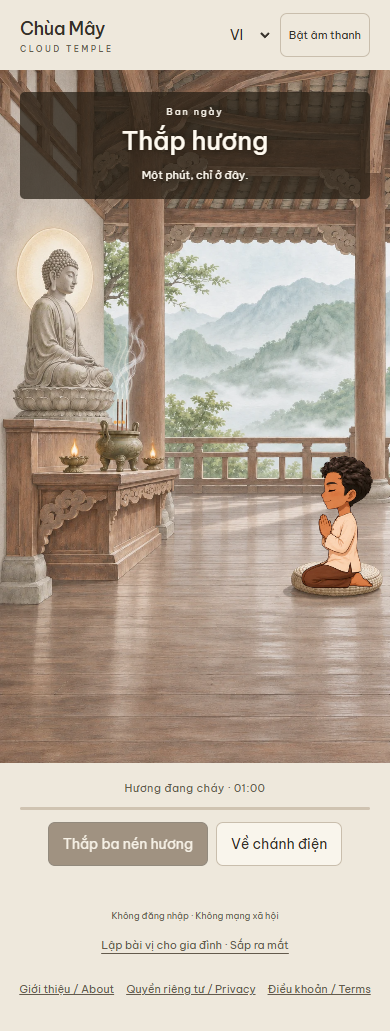
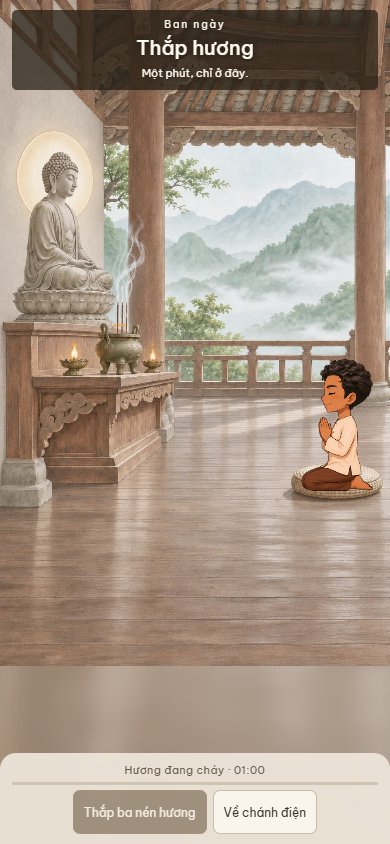
Fit temple activities in one viewport and isolate Telegram controls

diff --git a/app.js b/app.js
@@ -1,5 +1,5 @@
 import {copy,reflections} from './i18n.js';
-import {apiURL,initTelegram,inTelegram,initData,telegramBack,haptic,telegramShare} from './telegram.js';
+import {apiURL,initTelegram,inTelegram,initData,telegramBack,telegramAppearance,haptic,telegramShare} from './telegram.js';
 
 const $=s=>document.querySelector(s);
 const imageRoot='assets/processed-v1/img/';
@@ -101,7 +101,8 @@ async function navigate(view,{keepResult=false}={}){
 }
 function render(){
   const focused=document.activeElement,action=focused?.dataset?.action,target=focused?.dataset?.target,minutes=focused?.dataset?.minutes;
-  document.documentElement.lang=state.lang;document.body.dataset.period=state.period;
+  document.documentElement.lang=state.lang;document.body.dataset.period=state.period;document.body.dataset.view=state.view;
+  telegramAppearance(state.period,!!state.activity?.running&&['incense','sit'].includes(state.view));
   document.querySelectorAll('[data-i18n]').forEach(e=>e.textContent=t(e.dataset.i18n));
   $('#language').setAttribute('aria-label',t('language'));$('#controls').setAttribute('aria-label',t('actions'));
   if(inTelegram())$('#memorial').textContent=t('remind');
@@ -114,7 +115,7 @@ function render(){
   canvas.setAttribute('aria-label',t(sceneName()==='hall-front'?'sceneFront':sceneName()==='hall-side'?'sceneSide':'sceneCourt'));
   $('#notice').textContent='';$('#stage-note').textContent='';$('#entry-overlay').innerHTML='';
   if(state.view==='entry'){
-    $('#entry-overlay').innerHTML=`<p class="entry-caption">${t('entryNote')}</p>${button('enter','enter','primary')}`;$('#controls').innerHTML=`<p class="section-label">${t('tagline')}</p>`;
+    $('#controls').innerHTML=button('enter','enter','primary');
   }else if(state.view==='choose'){
     $('#controls').innerHTML=`<div class="visitor-choice"><img class="preview" src="${imageRoot}visitor-${state.visitor}-sit.webp" alt="${escapeHTML(t('choose'))}">${button('change','change')}${button('continue','continue','primary')}</div>`;
   }else if(state.view==='home'){
@@ -134,9 +135,23 @@ function render(){
     $('#controls').innerHTML=`<button class="bead-control" id="bead-control" data-action="bead" aria-label="${t('beadAction')}"><svg viewBox="0 0 220 180" aria-hidden="true">${Array.from({length:108},(_,i)=>{const a=i/108*Math.PI*2-Math.PI/2;return `<circle class="bead-dot ${i===state.bead%108?'current':''}" cx="${110+98*Math.cos(a)}" cy="${90+77*Math.sin(a)}" r="2.6"/>`;}).join('')}</svg><span>${state.bead} / 108</span></button>${button('back','home','text-button')}`;
     bindSwipe();
   }
-  fx();updateCounters();
+  if(state.view==='home')$('#controls').insertAdjacentHTML('beforeend',button('more','more','text-button'));
+  fx();updateCounters();fitScene();
   if(focused&&!focused.isConnected){const replacement=action?document.querySelector(`[data-action="${action}"]`):target?document.querySelector(`[data-target="${target}"]`):minutes?document.querySelector(`[data-minutes="${minutes}"]`):null;if(replacement&&!replacement.disabled)replacement.focus({preventScroll:true});}
 }
+function fitScene(){
+  if(!renderAssets)return;
+  const stage=$('.stage'),heading=$('.scene-heading').getBoundingClientRect(),controls=$('#controls').getBoundingClientRect(),box=stage.getBoundingClientRect();
+  // Cover would crop the Buddha and visitor on opposite edges; preserve their shared region.
+  const top=heading.bottom-box.top+8,bottom=controls.top-box.top-8;
+  const region=sceneName()==='hall-side'?[300,1280]:sceneName()==='courtyard'?[420,1400]:[300,1400];
+  const scale=Math.min(box.width/941,(bottom-top)/(region[1]-region[0]));
+  stage.style.setProperty('--scene-width',941*scale+'px');
+  stage.style.setProperty('--scene-top',top-region[0]*scale+'px');
+  stage.style.setProperty('--scene-image',`url("${renderAssets.scene.src}")`);
+}
+new ResizeObserver(fitScene).observe($('#app'));
+new ResizeObserver(fitScene).observe($('#controls'));
 function formatTime(ms){const seconds=Math.ceil(Math.max(0,ms)/1000);return `${Math.floor(seconds/60).toString().padStart(2,'0')}:${(seconds%60).toString().padStart(2,'0')}`;}
 function remaining(a){return a.running?Math.max(0,a.deadline-Date.now()):a.left;}
 function updateCounters(){
@@ -197,7 +212,11 @@ function openModal(title,body){lastFocus=document.activeElement;$('#modal-title'
 function closeModal(){if($('#modal').open)$('#modal').close();}
 $('#close-modal').addEventListener('click',closeModal);
 $('#modal').addEventListener('close',()=>{if(shareURL){URL.revokeObjectURL(shareURL);shareURL=null;}telegramBack(!['entry','home'].includes(state.view));lastFocus?.focus?.();});
+function openMore(){closeModal();$('#more-menu').showModal();telegramBack(true);}
+$('#close-more').onclick=()=>$('#more-menu').close();
+$('#more-menu').addEventListener('close',()=>telegramBack(!['entry','home'].includes(state.view)));
 function memorial(){
+  $('#more-menu').close();
   if(inTelegram()){
     openModal('remind',`<p>${t('remindInfo')}</p><form id="remind-form"><label class="consent"><input type="checkbox" required><span>${t('remindConsent')}</span></label><button class="primary">${t('remind')}</button><p role="status" id="remind-status"></p></form>`);
     $('#remind-form').addEventListener('submit',async e=>{e.preventDefault();const b=e.currentTarget.querySelector('button');if(b.disabled)return;b.disabled=true;try{const r=await fetch(apiURL('/telegram/remind'),{method:'POST',headers:{'Content-Type':'application/json'},body:JSON.stringify({initData:initData(),consent:true,consentAt:new Date().toISOString()}),signal:AbortSignal.timeout(12000)});$('#remind-status').textContent=t(r.ok?'registered':'unavailable');}catch{$('#remind-status').textContent=t('unavailable');}finally{b.disabled=false;}});return;
@@ -248,6 +267,7 @@ document.addEventListener('click',async e=>{
   if(b.dataset.minutes){state.sitMinutes=Number(b.dataset.minutes);render();return;}
   const action=b.dataset.action;if(!action)return;if(state.busy)return;
   switch(action){
+    case 'more':openMore();break;
     case 'enter':await navigate('choose');break;
     case 'change':state.visitor=state.layout.v1_scope.visitors[(state.layout.v1_scope.visitors.indexOf(state.visitor)+1)%6];write('ct-visitor',state.visitor);render();break;
     case 'continue':write('ct-visitor',state.visitor);audio.strike('bell');await navigate('home');break;
@@ -285,7 +305,7 @@ async function tick(){
 }
 setInterval(tick,200);
 async function init(){
-  await initTelegram(()=>{if($('#modal').open)closeModal();else navigate(state.view==='choose'?'entry':'home');});
+  await initTelegram(()=>{if($('#more-menu').open)$('#more-menu').close();else if($('#modal').open)closeModal();else navigate(state.view==='choose'?'entry':'home');},openMore);
   try{const response=await fetch('assets/processed-v1/layout-v1.json');if(!response.ok)throw new Error('layout');state.layout=await response.json();const saved=read('ct-visitor',null);state.visitor=state.layout.v1_scope.visitors.includes(saved)?saved:state.layout.v1_scope.visitors[Math.floor(Math.random()*6)];await navigate('entry');}
   catch{$('#loading').hidden=true;$('#notice').textContent=t('loadError');$('#controls').innerHTML=button('retry','reload');$('#controls').onclick=e=>{if(e.target.dataset.action==='reload')location.reload();};$('#app').setAttribute('aria-busy','false');}
 }

diff --git a/styles.css b/styles.css
@@ -15,4 +15,23 @@ body:is([data-period=night],[data-period=dusk]) button.primary{background:#52433
 body:is([data-period=night],[data-period=dusk]) button.primary:hover{background:#655139;color:#fffaf1}
 body:is([data-period=night],[data-period=dusk]) button[aria-pressed=true]{background:#655139;color:#fffaf1;border-color:#dfcbb0}
 body:is([data-period=night],[data-period=dusk]) button:disabled{opacity:1;background:#494a43;color:#f0ece3;border-color:#89877d;cursor:not-allowed}
-#eyebrow{text-transform:none}.legal-links{display:flex;flex-wrap:wrap;justify-content:center;gap:12px}.legal-links a{display:inline-flex;align-items:center;min-height:44px;font-size:11px}.legal-page{max-width:720px;margin:24px auto;padding:24px;line-height:1.8;background:var(--paper)}.legal-page p,.legal-page h2{margin:16px 0}.telegram #app,.telegram .topbar,.telegram .controls,.telegram footer{background:var(--tg-bg-color,var(--paper));color:var(--tg-text-color,var(--ink))}.telegram button:not(.primary){background:var(--tg-secondary-bg-color,var(--paper))!important;color:var(--tg-text-color,var(--ink))!important}.telegram button.primary{background:var(--tg-button-color,var(--button))!important;color:var(--tg-button-text-color,var(--button-text))!important}.telegram [data-action=home]{display:none}.telegram .section-label,.telegram footer{color:var(--tg-hint-color,var(--muted))}
+#eyebrow{text-transform:none}.legal-links{display:flex;flex-wrap:wrap;justify-content:center;gap:12px}.legal-links a{display:inline-flex;align-items:center;min-height:44px;font-size:11px}.legal-page{max-width:720px;margin:24px auto;padding:24px;line-height:1.8;background:var(--paper)}.legal-page p,.legal-page h2{margin:16px 0}/* The scene and visitor are already composited in one canvas; keep FX on its exact transform. */
+html:has(#app),body:has(#app){height:100%;overflow:hidden;overscroll-behavior:none}
+body:has(#app){--safe-top:env(safe-area-inset-top,0px);--safe-bottom:env(safe-area-inset-bottom,0px);--safe-left:env(safe-area-inset-left,0px);--safe-right:env(safe-area-inset-right,0px)}
+#app{position:relative;height:var(--app-height,100dvh);min-height:0;max-width:470px;margin:0 auto;overflow:hidden;border-radius:0}
+.stage{position:absolute;inset:0;width:100%;height:100%;max-height:none;aspect-ratio:auto;margin:0}
+.stage canvas,.stage>svg{inset:auto;left:50%;top:50%;width:max(100%,calc(var(--app-height,100dvh) * 941 / 1672));height:auto;aspect-ratio:941/1672;transform:translate(-50%,-50%)}
+.scene-heading{top:calc(10px + var(--safe-top));left:calc(12px + var(--safe-left));right:calc(12px + var(--safe-right));padding:8px 12px}
+h1{font-size:20px;line-height:1.35}#eyebrow{font-size:10px;margin-bottom:3px}#subtitle{margin-top:4px;line-height:1.5}
+.controls{position:absolute;bottom:0;left:0;right:0;margin:0;max-width:none;min-height:0;padding:10px calc(12px + var(--safe-right)) calc(10px + var(--safe-bottom)) calc(12px + var(--safe-left));background:#eee8dce8;backdrop-filter:blur(8px);border-radius:16px 16px 0 0;text-align:center}
+.stack{gap:5px}.row{gap:6px}.controls button{padding:9px 10px;font-size:12px}.controls .text-button{padding:8px;min-height:44px}.controls .action-nav button{padding:6px 2px;font-size:10px}.timer{font-size:26px}.count{font-size:20px}.bead-control{height:125px;width:160px}.preview{height:84px;width:58px}.completion{padding-top:0;border:0}.completion p{margin-bottom:6px}.stage-note{bottom:35%;font-size:12px}.notice{position:absolute;bottom:30%;left:12px;right:12px;padding:0;min-height:0;background:var(--paper);border-radius:5px}.notice:empty{display:none}
+body[data-view=entry] .scene-heading{background:none;text-shadow:0 1px 5px #000;color:#fffaf1;top:calc(22px + var(--safe-top))}body[data-view=entry] #eyebrow,body[data-view=entry] #subtitle{display:none}body[data-view=entry] .controls{background:#eee8dcbf;padding-top:16px}body[data-view=entry] .primary{min-width:190px}
+button.primary,button[aria-pressed=true]{background:#524331;color:#fffaf1;border-color:#725139}button.primary:hover,button[aria-pressed=true]:hover{background:#655139;color:#fffaf1}
+body[data-period=night] .controls{background:#282a27ed}body[data-period=dusk] .controls{background:#e8dac8ed}
+#more-menu .topbar{padding:0;min-height:44px}#more-menu .wordmark{display:none}#more-menu .utilities{width:100%;justify-content:space-between}#more-menu footer{padding:10px 0 0}#more-menu #sound-controls{padding:6px 0}
+body[data-period=night] dialog{color:#342f28}dialog{overscroll-behavior:contain}#more-menu .utilities button{color:#342f28;background:#f9f5ec}
+@media(max-height:700px){.scene-heading{padding:6px 10px}#subtitle{font-size:10px}.stack{gap:3px}.controls{padding-top:7px}.controls .section-label{font-size:10px}.timer{font-size:24px}.bead-control{height:112px}.nav-icon{margin-bottom:2px}}
+.stage::before{content:"";position:absolute;inset:-10px;background-image:var(--scene-image);background-position:center;background-size:cover;filter:blur(10px);opacity:.65}
+.stage canvas,.stage>svg{width:var(--scene-width,100%);top:var(--scene-top,0px);transform:translateX(-50%)}
+body[data-view=sit] .controls{min-height:260px}
+body:is([data-period=night],[data-period=dusk]) .controls button[aria-pressed=true]{background:#655139;color:#fffaf1}

diff --git a/tests/one-screen-telegram-check.js b/tests/one-screen-telegram-check.js
@@ -1,0 +1,22 @@
+async(page)=>{
+ const assert=(v,m)=>{if(!v)throw Error(m)};
+ await page.setViewportSize({width:393,height:852});
+ const sdk=`window.audit={events:{},colors:{}};window.Telegram={WebApp:{initData:'mock',viewportStableHeight:852,safeAreaInset:{top:24,bottom:20},contentSafeAreaInset:{top:12,bottom:8},ready(){},expand(){},BackButton:{onClick(f){audit.back=f},show(){},hide(){}},SettingsButton:{onClick(f){audit.settings=f},show(){audit.settingsShown=true}},disableVerticalSwipes(){audit.swipesDisabled=true},enableClosingConfirmation(){audit.confirm=true},disableClosingConfirmation(){audit.confirm=false},onEvent(k,f){audit.events[k]=f},setHeaderColor(v){audit.colors.header=v},setBackgroundColor(v){audit.colors.background=v},setBottomBarColor(v){audit.colors.bottom=v}}};`;
+ await page.route('https://telegram.org/js/telegram-web-app.js',r=>r.fulfill({contentType:'text/javascript',body:sdk}));
+ await page.route('https://staging.chuamay.org/**',async r=>{const u=new URL(r.request().url());const response=await r.fetch({url:'http://127.0.0.1:8788'+u.pathname+u.search});await r.fulfill({response});});
+ try{
+ await page.clock.setSystemTime(new Date('2026-11-05T10:00:00+07:00'));
+ await page.goto('https://staging.chuamay.org/?telegram=1');
+ const shot=async(view,selector)=>{await page.locator(selector).waitFor();await page.locator('#loading').waitFor({state:'hidden'});await page.clock.runFor(600);await page.screenshot({path:`E:/cloudtemple/screenshots/one-screen-telegram-${view}.png`});assert(await page.evaluate(()=>document.scrollingElement.scrollHeight===innerHeight),'scroll');assert(!await page.locator('.topbar').isVisible(),'own topbar hidden')};
+ await shot('entry','[data-action=enter]');await page.locator('[data-action=enter]').click();await shot('choose','[data-action=continue]');await page.locator('[data-action=continue]').click();await shot('home','[data-action=more]');
+ for(const [view,selector] of [['incense','[data-action=light]'],['bow','[data-action=bow-once]'],['sit','[data-action=sit-start]'],['beads','#bead-control']]){
+ await page.locator(`[data-action=${view}]`).click();await shot(view,selector);
+ if(view==='incense'||view==='sit'){await page.locator(selector).click();assert(await page.evaluate(()=>audit.confirm),'running confirmation');if(view==='sit'){await page.locator('[data-action=pause]').click();assert(await page.evaluate(()=>!audit.confirm),'paused confirmation off');}}
+ await page.locator('[data-action=home]').click();await page.locator('[data-action=more]').waitFor();assert(await page.evaluate(()=>!audit.confirm),'home confirmation off');}
+ await page.evaluate(()=>audit.settings());assert(await page.locator('#more-menu').isVisible(),'settings opens');await page.locator('#close-more').click();
+ const colors={};for(const [period,hour] of [['dawn',6],['day',10],['dusk',18],['night',22]]){await page.clock.setSystemTime(new Date(`2026-11-05T${String(hour).padStart(2,'0')}:00:00+07:00`));await page.locator('[data-action=bow]').click();await page.locator('[data-action=bow-once]').waitFor();colors[period]=await page.evaluate(()=>audit.colors);await page.locator('[data-action=home]').click();await page.locator('[data-action=more]').waitFor();}
+ await page.screenshot({path:'E:/cloudtemple/screenshots/one-screen-telegram-night.png'});
+ await page.evaluate(()=>{Telegram.WebApp.viewportStableHeight=780;audit.events.viewportChanged({isStateStable:true})});assert(await page.locator('#app').evaluate(e=>e.clientHeight)===780,'stable viewport resize');
+ return {passed:true,mode:'mock bridge; native bars cannot be rendered by browser',colors,audit:await page.evaluate(()=>({swipesDisabled:audit.swipesDisabled,settingsShown:audit.settingsShown,safeTop:getComputedStyle(document.body).getPropertyValue('--safe-top')}))};
+ }finally{await page.unrouteAll({behavior:'wait'})}
+}

diff --git a/index.html b/index.html
@@ -2,7 +2,7 @@
 <html lang="vi">
 <head>
   <meta charset="utf-8">
-  <meta name="viewport" content="width=device-width,initial-scale=1">
+  <meta name="viewport" content="width=device-width,initial-scale=1,viewport-fit=cover">
   <meta name="theme-color" content="#eee8dc">
   <meta name="description" content="Chùa Mây — Một khoảng lặng cho hôm nay.">
   <title>Chùa Mây · Cloud Temple</title>
@@ -17,14 +17,6 @@
 </head>
 <body>
   <main id="app" aria-busy="true">
-    <header class="topbar">
-      <a class="wordmark" href="./">Chùa Mây<span>CLOUD TEMPLE</span></a>
-      <div class="utilities">
-        <select id="language" aria-label="Language"><option value="vi">VI</option><option value="en">EN</option></select>
-        <button id="sound-toggle" class="quiet" type="button" aria-pressed="false">Âm thanh</button>
-      </div>
-    </header>
-    <div id="sound-controls" hidden><label for="volume" data-i18n="volume"></label><input id="volume" type="range" min="0" max="100" value="25"></div>
     <section class="stage" aria-label="Chùa Mây">
       <canvas id="scene" width="941" height="1672" role="img" aria-label="Chùa Mây"></canvas>
       <svg id="effects" viewBox="0 0 941 1672" aria-hidden="true"></svg>
@@ -35,9 +27,18 @@
     </section>
     <section id="controls" class="controls" aria-label="Actions"></section>
     <p id="notice" class="notice" role="status" aria-live="polite"></p>
-    <footer><span data-i18n="privacy"></span><button id="memorial" class="text-button" data-i18n="memorial"></button><nav class="legal-links"><a href="/gioi-thieu">Giới thiệu / About</a><a href="/quyen-rieng-tu">Quyền riêng tư / Privacy</a><a href="/dieu-khoan">Điều khoản / Terms</a></nav></footer>
+
   </main>
   <dialog id="modal" aria-labelledby="modal-title"><div class="modal-inner"><button id="close-modal" class="close" type="button" data-i18n="close"></button><h2 id="modal-title"></h2><div id="modal-body"></div></div></dialog>
+  <dialog id="more-menu" aria-labelledby="more-title"><div class="modal-inner"><button id="close-more" class="close" data-i18n="close"></button><h2 id="more-title" data-i18n="more"></h2>    <header class="topbar">
+      <a class="wordmark" href="./">Chùa Mây<span>CLOUD TEMPLE</span></a>
+      <div class="utilities">
+        <select id="language" aria-label="Language"><option value="vi">VI</option><option value="en">EN</option></select>
+        <button id="sound-toggle" class="quiet" type="button" aria-pressed="false">Âm thanh</button>
+      </div>
+    </header>
+    <div id="sound-controls" hidden><label for="volume" data-i18n="volume"></label><input id="volume" type="range" min="0" max="100" value="25"></div>
+    <footer><span data-i18n="privacy"></span><button id="memorial" class="text-button" data-i18n="memorial"></button><nav class="legal-links"><a href="/gioi-thieu">Giới thiệu / About</a><a href="/quyen-rieng-tu">Quyền riêng tư / Privacy</a><a href="/dieu-khoan">Điều khoản / Terms</a></nav></footer></div></dialog>
   <noscript>JavaScript is needed to enter Cloud Temple.</noscript>
 </body>
 </html>

diff --git a/telegram.js b/telegram.js
@@ -1,14 +1,19 @@
 export const apiURL=path=>['h5.chuamay.org','miniapp.chuamay.org'].includes(location.hostname)?'https://api.chuamay.org'+path:'/api'+path;
 let app=null,back=null;
-export async function initTelegram(onBack){
+export async function initTelegram(onBack,onSettings){
   if(location.hostname!=='miniapp.chuamay.org'&&!(location.hostname==='staging.chuamay.org'&&new URLSearchParams(location.search).get('telegram')==='1'))return;
   try{
     await new Promise((resolve,reject)=>{const s=document.createElement('script');s.src='https://telegram.org/js/telegram-web-app.js';s.onload=resolve;s.onerror=reject;document.head.append(s);});
     const sdk=window.Telegram?.WebApp;if(!sdk)return;sdk.ready();sdk.expand();
     if(!sdk.initData)return;app=sdk;back=onBack;app.BackButton.onClick(()=>back?.());
     document.body.classList.add('telegram');
-    const theme=()=>{for(const [key,value] of Object.entries(app.themeParams)){if(/^#[a-f0-9]{6}$/i.test(value))document.body.style.setProperty('--tg-'+key.replaceAll('_','-'),value);}app.setHeaderColor?.('bg_color');app.setBackgroundColor?.(app.themeParams.bg_color||'#eee8dc');};
-    app.onEvent('themeChanged',theme);theme();
+    app.disableVerticalSwipes?.();app.SettingsButton?.onClick(onSettings);app.SettingsButton?.show();
+    const viewport=()=>{
+      if(app.viewportStableHeight>0)document.body.style.setProperty('--app-height',app.viewportStableHeight+'px');
+      for(const side of ['top','bottom','left','right'])document.body.style.setProperty('--safe-'+side,((app.safeAreaInset?.[side]||0)+(app.contentSafeAreaInset?.[side]||0))+'px');
+    };
+    for(const event of ['viewportChanged','safeAreaChanged','contentSafeAreaChanged'])app.onEvent(event,viewport);
+    viewport();
   }catch{/* Keep the web interface when the Telegram bridge is unavailable. */}
 }
 export const inTelegram=()=>!!app;
@@ -16,3 +21,10 @@ export const initData=()=>app?.initData||'';
 export function telegramBack(show){if(app)app.BackButton[show?'show':'hide']();}
 export function haptic(kind){if(!app)return false;try{app.HapticFeedback?.impactOccurred(kind);}catch{}return true;}
 export function telegramShare(text){if(!app)return false;app.openTelegramLink('https://t.me/share/url?url='+encodeURIComponent(location.origin)+'&text='+encodeURIComponent(text));return true;}
+
+export function telegramAppearance(period,running){
+  if(!app)return;
+  const color={dawn:'#eee8dc',day:'#eee8dc',dusk:'#705b49',night:'#282a27'}[period];
+  app.setHeaderColor?.(color);app.setBackgroundColor?.(color);app.setBottomBarColor?.(color);
+  app[running?'enableClosingConfirmation':'disableClosingConfirmation']?.();
+}

diff --git a/tests/browser-check.js b/tests/browser-check.js
@@ -27,11 +27,11 @@ async (page) => {
   await page.locator('#close-modal').click();await click('home');await click('beads');await page.locator('#bead-control').focus();
   await page.keyboard.press('Enter');await page.keyboard.press('Enter');assert(await page.locator('#bead-control').innerText()==='2 / 108','keyboard focus');await shot('06-beads');
   for(let i=2;i<108;i++)await click('bead');await page.locator('[data-action=share]').waitFor();
-  await page.locator('#memorial').click();await shot('08-memorial');await page.locator('#waitlist-form button').click();assert((await page.locator('#form-status').innerText()).length>0,'form validation');await page.locator('#close-modal').click();
-  await click('home');await page.clock.setSystemTime(new Date('2026-11-05T22:00:00+07:00'));await click('bow');await click('bow-once');await page.clock.runFor(1300);await shot('09-night-bow');
+  await click('home');await click('more');await page.locator('#memorial').click();await shot('08-memorial');await page.locator('#waitlist-form button').click();assert((await page.locator('#form-status').innerText()).length>0,'form validation');await page.locator('#close-modal').click();
+  await page.clock.setSystemTime(new Date('2026-11-05T22:00:00+07:00'));await click('bow');await click('bow-once');await page.clock.runFor(1300);await shot('09-night-bow');
   assert(await page.locator('body').getAttribute('data-period')==='night','night');
   await page.emulateMedia({reducedMotion:'reduce'});await page.waitForFunction(()=>getComputedStyle(document.querySelector('.halo-pulse')).animationName==='none');
   for(const width of [375,390,430]){await page.setViewportSize({width,height:844});assert(await page.evaluate(()=>document.documentElement.scrollWidth===innerWidth),'overflow');}
-  await page.setViewportSize({width:390,height:844});await page.locator('#language').selectOption('en');assert(await page.locator('html').getAttribute('lang')==='en','English');
+  await page.setViewportSize({width:390,height:844});await click('home');await click('more');await page.locator('#language').selectOption('en');assert(await page.locator('html').getAttribute('lang')==='en','English');
   return {passed:true,screenshots:9,paused:held,viewportWidths:[375,390,430]};
 }

diff --git a/tests/one-screen-check.js b/tests/one-screen-check.js
@@ -1,0 +1,14 @@
+async(page)=>{
+ const results=[];const assert=(v,m)=>{if(!v)throw Error(m)};
+ for(const [width,height] of [[375,667],[390,844],[393,852],[430,932]]){
+  await page.setViewportSize({width,height});await page.goto('http://127.0.0.1:8788');
+  const shot=async(view,selector)=>{await page.locator(selector).waitFor();await page.locator('#loading').waitFor({state:'hidden'});await page.waitForTimeout(500);
+   const m=await page.evaluate(()=>{const d=document.scrollingElement;const controls=[...document.querySelectorAll('#controls button,#controls select')].filter(e=>e.getClientRects().length).map(e=>{const r=e.getBoundingClientRect();return {text:e.textContent,x:r.x,y:r.y,right:r.right,bottom:r.bottom,w:r.width,h:r.height,sw:e.scrollWidth,cw:e.clientWidth}});return {scrollHeight:d.scrollHeight,viewport:innerHeight,scrollWidth:d.scrollWidth,width:innerWidth,controls}});
+   assert(m.scrollHeight===height&&m.scrollWidth===width,'scroll '+view);assert(m.controls.every(r=>r.x>=0&&r.y>=0&&r.right<=width+.1&&r.bottom<=height+.1&&r.h>=44&&r.sw<=r.cw),'controls '+view);
+   await page.screenshot({path:`E:/cloudtemple/screenshots/one-screen-${width}-${view}.png`});results.push({width,height,view,...m});};
+  await shot('entry','[data-action=enter]');await page.locator('[data-action=enter]').click();await shot('choose','[data-action=continue]');await page.locator('[data-action=continue]').click();await shot('home','[data-action=more]');
+  for(const [view,selector] of [['incense','[data-action=light]'],['bow','[data-action=bow-once]'],['sit','[data-action=sit-start]'],['beads','#bead-control']]){await page.locator(`[data-action=${view}]`).click();await shot(view,selector);await page.locator('[data-action=home]').click();await page.locator('[data-action=more]').waitFor();}
+  await page.locator('[data-action=more]').click();await page.locator('#language').selectOption('en');await page.locator('#sound-toggle').click();assert(await page.locator('#volume').isVisible(),'volume');await page.locator('#close-more').click();
+ }
+ return {passed:true,screenshots:results.length,dimensions:[...new Set(results.map(r=>r.width+'x'+r.height+': '+r.scrollWidth+'x'+r.scrollHeight))]};
+}

diff --git a/tests/telegram-browser-check.js b/tests/telegram-browser-check.js
@@ -12,7 +12,7 @@ async(page)=>{
     for(let i=1;i<108;i++)await page.locator('#bead-control').click();assert(await page.evaluate(()=>audit.haptics.at(-1)==='heavy'),'heavy haptic');
     await page.locator('[data-action=share]').click();await page.locator('[data-action=share-file]').click();assert(await page.evaluate(()=>audit.share.startsWith('https://t.me/share/url?')),'Telegram share');
     await page.evaluate(()=>audit.back());await page.evaluate(()=>audit.back());await page.locator('[data-action=bow]').click();await page.locator('[data-action=bow-once]').click();await page.clock.runFor(4200);assert(await page.evaluate(()=>audit.haptics.includes('soft')),'bow haptic');
-    await page.locator('#memorial').click();assert(await page.locator('#email').count()===0,'no email in mini app');await page.locator('#remind-form input').check();await page.locator('#remind-form button').click();await page.waitForFunction(()=>document.querySelector('#remind-status').textContent.length>0);assert(reminder?.initData==='mock-signed-data'&&reminder.consent===true,'signed reminder payload');
+    await page.evaluate(()=>audit.back());await page.locator('[data-action=more]').click();await page.locator('#memorial').click();assert(await page.locator('#email').count()===0,'no email in mini app');await page.locator('#remind-form input').check();await page.locator('#remind-form button').click();await page.waitForFunction(()=>document.querySelector('#remind-status').textContent.length>0);assert(reminder?.initData==='mock-signed-data'&&reminder.consent===true,'signed reminder payload');
     await page.screenshot({path:'E:/cloudtemple/screenshots/11-miniapp-mocked.png',fullPage:true});
     return {passed:true,sdkRequests,reminderConsent:reminder.consent,mode:'mocked Telegram bridge; not device evidence'};
   }finally{await page.unrouteAll({behavior:'wait'});}

diff --git a/tests/review-check.js b/tests/review-check.js
@@ -29,7 +29,7 @@ async(page)=>{
       if(view==='sit'){await page.locator('[data-action=sit-start]').click();await measure('sit-running');await page.locator('[data-action=finish]').click();await page.locator('[data-action=share]').click();await page.locator('.share-preview').waitFor();await measure('share');await page.locator('#close-modal').click();}
       await page.locator('[data-action=home]').click();await page.locator('[data-action=incense]').waitFor();
     }
-    await page.locator('#memorial').click();await measure('memorial');await page.locator('#close-modal').click();
+    await page.locator('[data-action=more]').click();await page.locator('#memorial').click();await measure('memorial');await page.locator('#close-modal').click();
   }
   const share=await page.evaluate(async()=>{
     await document.fonts.ready;const {copy}=await import('/i18n.js'),c=document.createElement('canvas').getContext('2d');c.font='500 44px "Be Vietnam Pro", sans-serif';

diff --git a/i18n.js b/i18n.js
@@ -1,6 +1,7 @@
 // Every entry, including English, is pending Vietnamese native-speaker review.
 const entry=(vi,en)=>({vi,en,review:'待越南母语者审核'});
 export const copy={
+more:entry('Thêm','More'),
 brand:entry('Chùa Mây','Cloud Temple'),tagline:entry('Một khoảng lặng cho hôm nay.','A quiet moment for today.'),
 enter:entry('Vào chùa','Enter the temple'),entryTitle:entry('Chậm lại một chút.','Take a slower moment.'),entryNote:entry('Không tài khoản. Không vội vàng.','No account. No hurry.'),
 choose:entry('Một người khách, một khoảng lặng.','A visitor. A moment of quiet.'),change:entry('Đổi người','Change visitor'),continue:entry('Bước vào','Step inside'),

diff --git a/交付说明-一屏布局修正.md b/交付说明-一屏布局修正.md
@@ -1,0 +1,30 @@
+# 一屏布局修正：staging 验收记录
+
+## 已实测确认的
+- 本地 Playwright 四种尺寸各 7 页，28 张截图：screenshots/one-screen-{宽度}-{页面}.png。
+- 375×667：7 页 scrollHeight=667、scrollWidth=375。
+- 390×844：7 页 scrollHeight=844、scrollWidth=390。
+- 393×852：7 页 scrollHeight=852、scrollWidth=393。
+- 430×932：7 页 scrollHeight=932、scrollWidth=430。
+- 按钮均在视口内，高度至少 44px，控件无水平文字溢出。截图人工抽看了侧面大殿、最小屏静坐；没有逐张人工审美验收。
+- 活动回归通过：60 秒香、礼拜次数选项与慢拜、静坐暂停/恢复/结束、木鱼、108 颗念珠、PNG 下载、登记空表单校验、减少动效、英语切换。
+- 黄昏/夜间 432 个按钮状态测量通过，最低对比度 7.24:1。
+- 模拟 Telegram 393×852 的 7 页和夜景截图已保存：one-screen-telegram-*.png。模拟安全区上 36px、下 28px，设置菜单可打开，竖滑禁用调用成功，只有上香/静坐进行中启用关闭确认，暂停/返回后关闭。稳定高度从 852 改到 780 后 app 高度为 780。
+- 模拟 bridge 捕获到的 header/background/bottom 颜色：清晨/白天 #eee8dc，黄昏 #705b49，夜晚 #282a27。浏览器不能绘制 Telegram 原生栏，截图不算原生栏实测。
+
+## 只在代码里确认的
+- 背景、人物先合成到同一 canvas；烟与背光 SVG 使用同一尺寸和偏移，layout-v1.json 未改。
+- 为避免窄屏裁掉左右两端的佛像与访客，前景保留主体区域，外围用同场景模糊铺满；这是对“直接 cover 裁切”的有意调整。小屏主体会缩小，请真机审美确认。
+- 语言、声音、音量、登记/提醒及法律链接移进“更多”，入口页只显示一句标题及进入按钮；没有独立网页顶栏。
+- 100dvh、Telegram viewportStableHeight、安全区事件已接入。SDK 用法依据 https://core.telegram.org/bots/webapps 。
+- 本轮只部署 staging 静态文件，不修改 API 数据、正式机器人菜单或生产服务。
+
+## 没把握的 / 尚未验收
+- iPhone Safari 工具栏伸缩、Telegram 原生标题栏与手势行为：尚无真机测试，不能用模拟代替。
+- 原录屏灰点：未提供可检查的录屏文件；本地截图未复现，源码未发现对应圆点元素。不能宣称已定位其根因；真机仍需重点观察。
+- staging 没有独立 API 环境配置，登记/提醒请求未做 staging 成功验收。正式 API 不在本次变更范围。
+- staging 没有独立测试机器人 Token；正式机器人仍指向正式站。需配置测试机器人后才能按用户要求在 Telegram 内验收；普通聊天链接可能只是浏览器，不等于 Mini App。
+- 保留 staging Basic Auth。真实 WebView 是否顺利弹出认证需真机确认。
+
+## 发布边界
+用户 iPhone 15 Telegram 验收通过前，不合并到 main，不更新 h5 / miniapp 正式环境。
